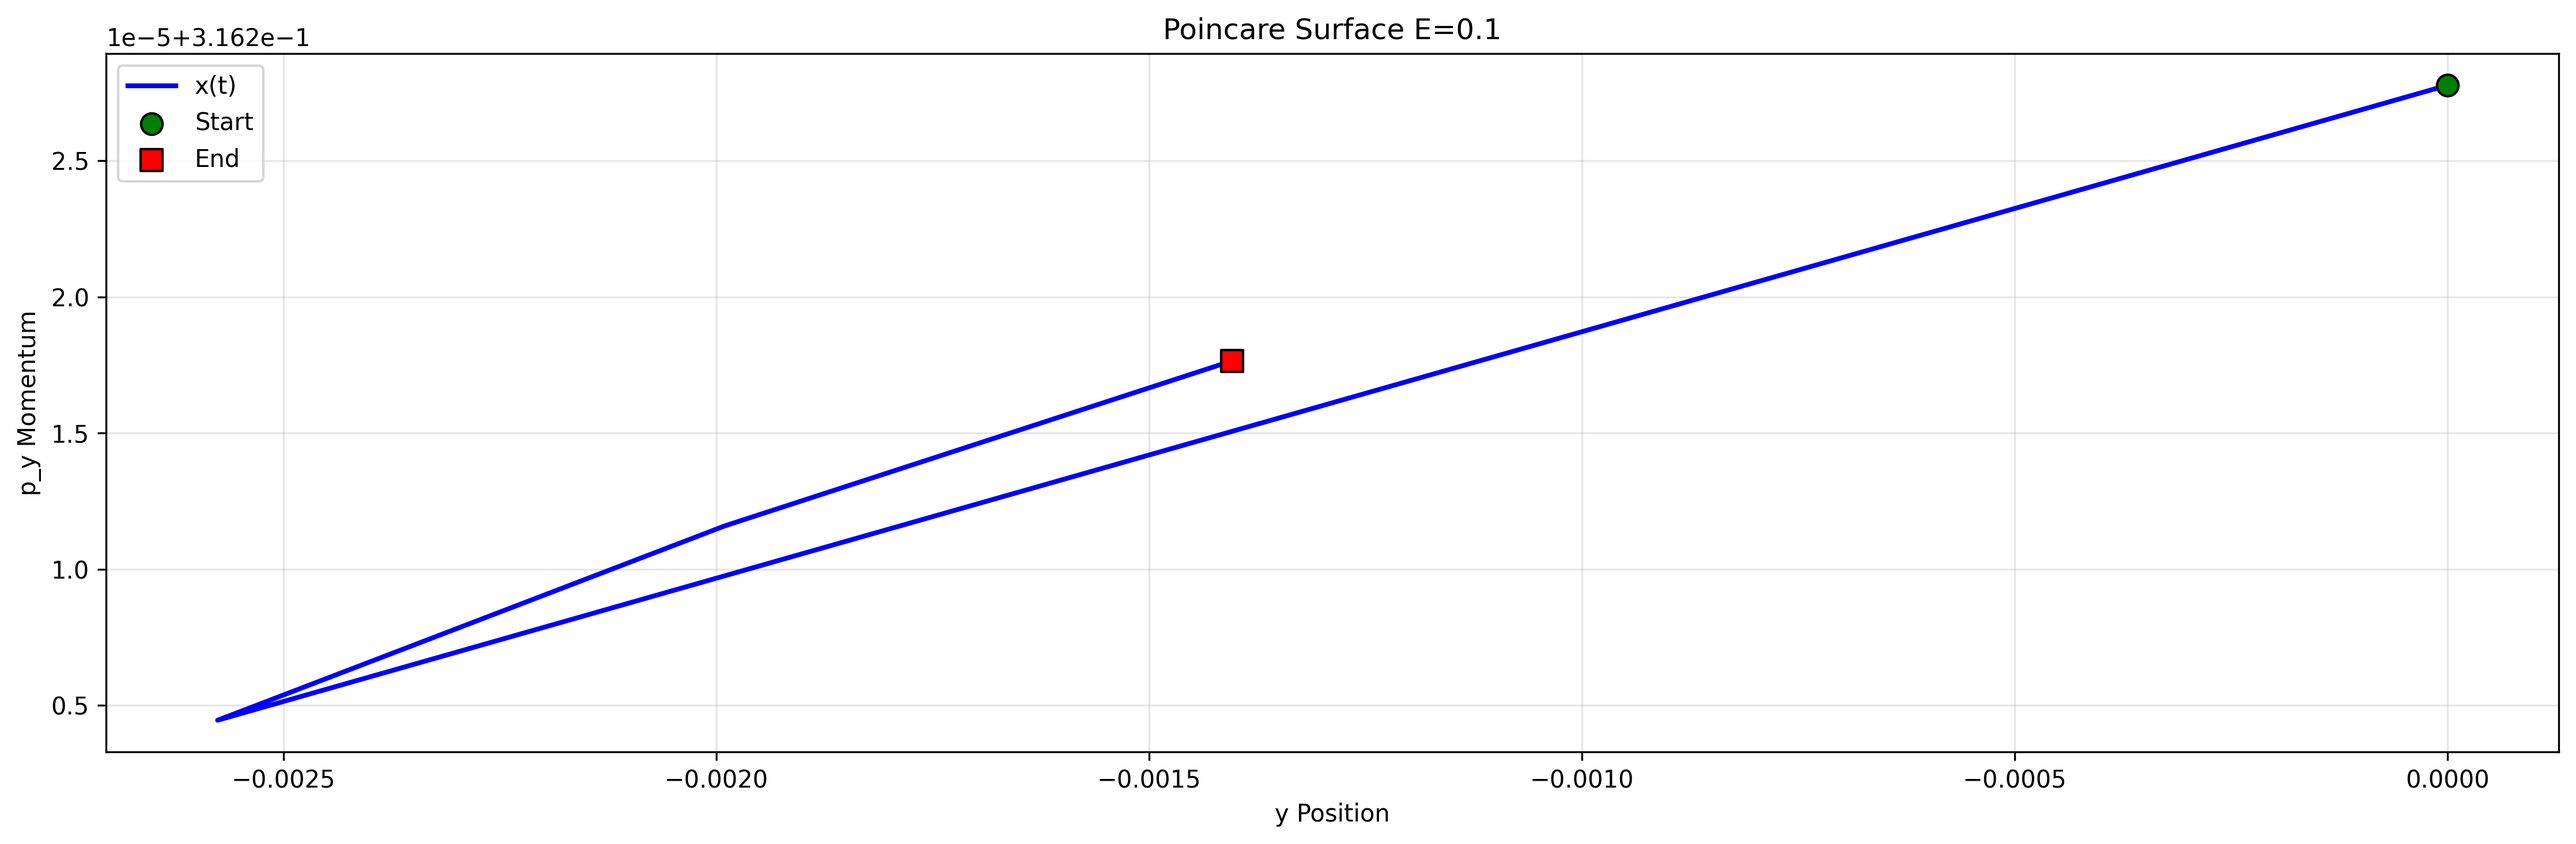
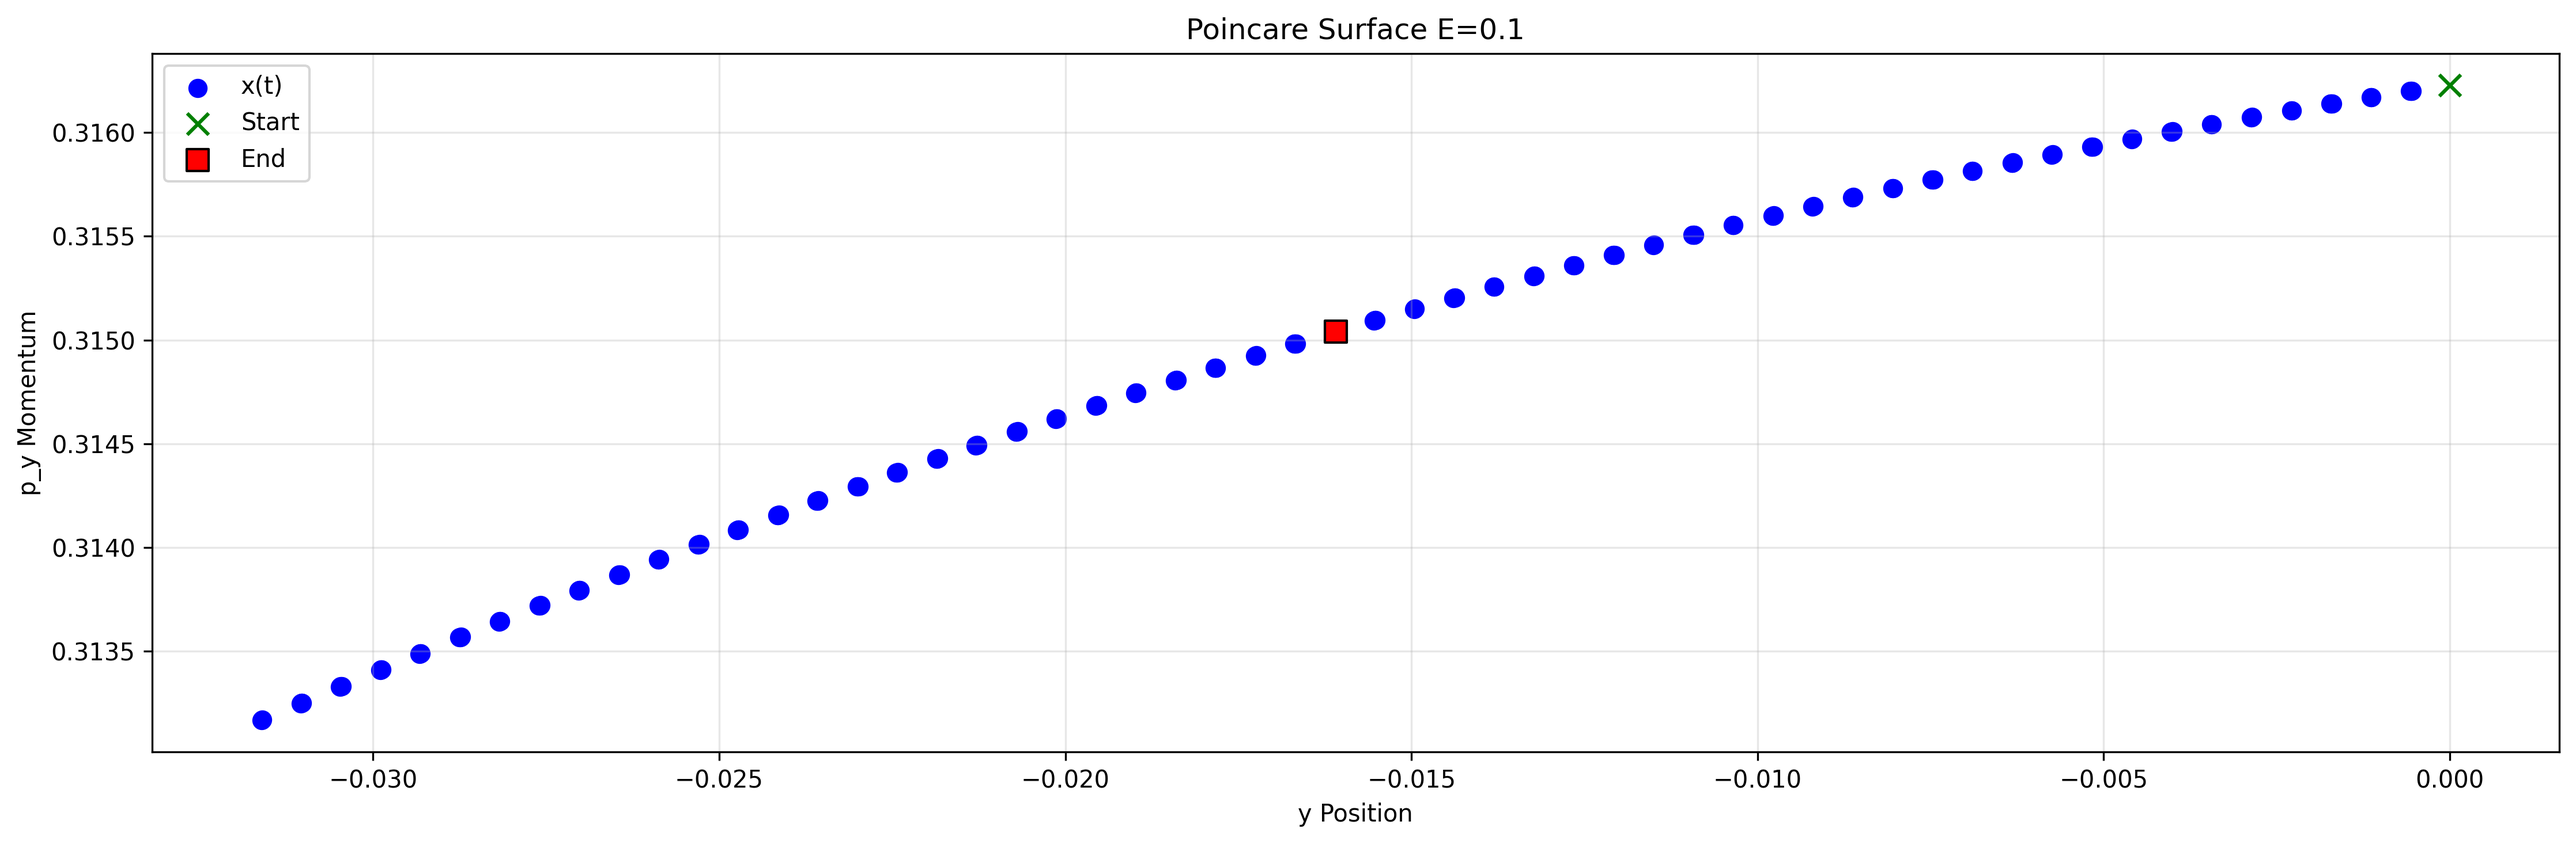
Ex6 before Kochavi

diff --git a/Ex6/potential_contours.py b/Ex6/potential_contours.py
@@ -10,8 +10,7 @@ def HenonHils(x, y, E):
 def Toda(x, y, E):
     return 1/24 * (np.exp(2*y+2*np.sqrt(3)*x) + np.exp(2*y-2*np.sqrt(3)*x) + np.exp(-4*y)) - 1/8 - E
 
-def plot_multi_energy_contours(func, X, Y, energies, ax, title, colormap='viridis', separatrix_E=None):
-    print(f"Plotting {title} contours...")
+def plot_multi_energy_contours(func, X, Y, energies, ax, title, colormap='viridis', separatrix_Es=None):
     colors = plt.cm.get_cmap(colormap)(np.linspace(0, 1, len(energies)))
     
     for i, E in enumerate(energies):
@@ -23,18 +22,17 @@ def plot_multi_energy_contours(func, X, Y, energies, ax, title, colormap='viridi
             continue
     
     # Plot separatrix if specified
-    if separatrix_E is not None:
-        Z_sep = func(X, Y, separatrix_E)
-        try:
-            contour_sep = ax.contour(X, Y, Z_sep, levels=[0], colors=['red'], linewidths=3)
+    if separatrix_Es is not None:
+        colors = ['purple', 'green', 'green', 'blue', 'orange'][:len(separatrix_Es)]
+        legend_elements = []
+        for i, separatrix_E in enumerate(separatrix_Es):
+            Z_sep = func(X, Y, separatrix_E)
+            contour_sep = ax.contour(X, Y, Z_sep, levels=[0], colors=[colors[i]], linewidths=3, linestype='--')
             # Create a custom legend entry for the separatrix
             from matplotlib.lines import Line2D
-            legend_elements = [Line2D([0], [0], color='red', lw=3, label=f'Separatrix (E={separatrix_E:.4f})')]
-            ax.legend(handles=legend_elements, loc='upper right')
-            print(f"Added separatrix contour at E = {separatrix_E}")
-        except:
-            print(f"Warning: Could not plot separatrix contour for E = {separatrix_E}")
-    
+            legend_elements.append(Line2D([0], [0], color=colors[i], lw=3, linestyle='--', label=f'Separatrix (E={separatrix_E:.4f})'))
+        ax.legend(handles=legend_elements, loc='upper right')
+        
     # Format the plot
     ax.set_xlabel('x')
     ax.set_ylabel('y')
@@ -85,6 +83,35 @@ def create_output_directory():
     return output_dir
 
 # 2. Create a grid of x and y values
+E_henon = np.linspace(0.001, 0.05, 15)  # Energy levels for Henon-Heiles
+E_toda = np.linspace(0.001, 0.05, 15)  # Energy levels for Toda
+
+scale = 0.4
+x_min, x_max = -scale, scale
+y_min, y_max = -scale, scale
+x = np.linspace(x_min, x_max, 400)
+y = np.linspace(y_min, y_max, 400)
+X, Y = np.meshgrid(x, y)
+
+fig, (ax1, ax2) = plt.subplots(1, 2, figsize=(16, 7))
+
+plot_multi_energy_contours(HenonHils, X, Y, E_henon, ax1, 
+                          'Henon-Heiles Function Contours\n(Multiple Energy Levels)', 
+                          'viridis',
+                          separatrix_Es=[0.0523])
+
+plot_multi_energy_contours(Toda, X, Y, E_toda, ax2, 
+                          'Toda Function Contours\n(Multiple Energy Levels)', 
+                          'viridis')
+
+plt.tight_layout()
+output_dir = create_output_directory()
+# Save the multi-energy contour plot
+multi_energy_path = os.path.join(output_dir, "multi_energy_contours[zoom in].png")
+plt.savefig(multi_energy_path, dpi=300, bbox_inches='tight')
+
+
+#######################################################################################################
 x_min, x_max = -3, 3
 y_min, y_max = -3, 3
 x = np.linspace(x_min, x_max, 400)
@@ -92,8 +119,8 @@ y = np.linspace(y_min, y_max, 400)
 X, Y = np.meshgrid(x, y)
 
 # 3. Define different energy arrays for each function
-E_henon = np.linspace(0.01, 0.3, 15)  # Energy levels for Henon-Heiles
-E_toda = np.linspace(-0.1, 5, 15)   # Energy levels for Toda
+E_henon = np.linspace(0, 0.5, 15)  # Energy levels for Henon-Heiles
+E_toda = np.append(E_henon[1:5], np.linspace(0, 5, 16))   # Energy levels for Toda
 
 # 4. Create output directory
 output_dir = create_output_directory()
@@ -104,23 +131,25 @@ fig, (ax1, ax2) = plt.subplots(1, 2, figsize=(16, 7))
 plot_multi_energy_contours(HenonHils, X, Y, E_henon, ax1, 
                           'Henon-Heiles Function Contours\n(Multiple Energy Levels)', 
                           'viridis',
-                          separatrix_E=0.0523)
+                          separatrix_Es=[0.0523, 0.334])
 
 plot_multi_energy_contours(Toda, X, Y, E_toda, ax2, 
                           'Toda Function Contours\n(Multiple Energy Levels)', 
-                          'plasma')
+                          'viridis')
 
 plt.tight_layout()
 
 # Save the multi-energy contour plot
-multi_energy_path = os.path.join(output_dir, "multi_energy_contours.png")
+multi_energy_path = os.path.join(output_dir, "multi_energy_contours [zoom out].png")
 plt.savefig(multi_energy_path, dpi=300, bbox_inches='tight')
-print(f"Multi-energy contour plot saved to: {multi_energy_path}")
+
+
 
 # 6. Create and save single contour plot
 single_contour_path = os.path.join(output_dir, "single_contour_henon_heiles.png")
-plot_single_contour(HenonHils, X, Y, E=0.01, 
-                   title='Original Plot: Henon-Heiles f(x,y) = 0 at E = 0.03',
+E_separatrix = 0.334
+plot_single_contour(HenonHils, X, Y, E=E_separatrix, 
+                   title=f'Original Plot: Henon-Heiles f(x,y) = 0 at E = {E_separatrix}',
                    save_path=single_contour_path)
 
 print(f"\nAll plots have been saved to the '{output_dir}' directory.")

diff --git a/Ex6/symplectic.py b/Ex6/symplectic.py
@@ -2,9 +2,9 @@ import matplotlib.pyplot as plt
 import numpy as np
 from typing import List, Tuple
 
-t_final = 20
+t_final = 200
 alpha = 4
-dt = 10 ** -3
+dt = 10 ** -2
 NUM_ITERATIONS = int(t_final / dt)
 
 def forceHenon(x: float, y: float) -> Tuple[float, float]:
@@ -13,7 +13,7 @@ def forceHenon(x: float, y: float) -> Tuple[float, float]:
     return Fx, Fy
 
 def forceToda(x: float, y: float) -> Tuple[float, float]:
-    Fx = - np.sqrt(3)/12 * (np.exp(2*y+2*np.sqrt(3)*x) - np.exp(2*y-2*np.sqrt(3)*x) + np.exp(-4*y))
+    Fx = - np.sqrt(3)/12 * (np.exp(2*y+2*np.sqrt(3)*x) - np.exp(2*y-2*np.sqrt(3)*x))
     Fy = - 1/12 * (np.exp(2*y+2*np.sqrt(3)*x) + np.exp(2*y-2*np.sqrt(3)*x) - 2 * np.exp(-4*y))
     return Fx, Fy
 
@@ -38,62 +38,6 @@ def solve_numeric_symplectic(x_0: float, y_0: float, px_0: float, py_0: float, f
         if (x[n] >= 0 and x[n + 1] <=0) or (x[n] <= 0 and x[n + 1] >= 0):
             cross_points.append(t[n])
     return t, x, y, px, py
-
-def plot_3d_dynamics(t, x, y, title="3D Trajectory Dynamics", save_path=None, 
-                     figsize=(12, 9), trajectory_color='blue', start_color='green', 
-                     end_color='red', marker_size=100):
-    """
-    Plot 3D dynamics showing the trajectory (x(t), y(t)) in space with time as the third dimension
-    
-    Parameters:
-    t: array of time values
-    x: array of x coordinates
-    y: array of y coordinates
-    title: plot title
-    save_path: optional path to save the figure
-    figsize: figure size tuple
-    trajectory_color: color of the trajectory line
-    start_color: color of the starting point marker
-    end_color: color of the ending point marker
-    marker_size: size of start/end markers
-    """
-    
-    # Create 3D figure
-    fig = plt.figure(figsize=figsize)
-    ax = fig.add_subplot(111, projection='3d')
-    
-    # Plot the trajectory line
-    ax.plot(x, y, t, color=trajectory_color, linewidth=2, alpha=0.8, label='Trajectory')
-    
-    # Mark starting point
-    ax.scatter(x[0], y[0], t[0], color=start_color, s=marker_size, 
-               marker='o', label=f'Start (t={t[0]:.3f})', alpha=0.9, edgecolors='black')
-    
-    # Mark ending point
-    ax.scatter(x[-1], y[-1], t[-1], color=end_color, s=marker_size, 
-               marker='s', label=f'End (t={t[-1]:.3f})', alpha=0.9, edgecolors='black')
-    
-    # Set labels and title
-    ax.set_xlabel('X Position')
-    ax.set_ylabel('Y Position')
-    ax.set_zlabel('Time (t)')
-    ax.set_title(title)
-    
-    # Add legend
-    ax.legend(loc='upper left')
-    
-    # Add grid
-    ax.grid(True, alpha=0.3)
-    
-    # Set viewing angle for better visualization
-    ax.view_init(elev=20, azim=45)
-    
-    # Save if path provided
-    if save_path:
-        plt.savefig(save_path, dpi=300, bbox_inches='tight')
-        print(f"3D dynamics plot saved to: {save_path}")
-    
-    return fig, ax
 
 
 def plot_2d_projection_dynamics(t, x, y, title="2D Trajectory Projections", save_path=None, 
@@ -161,12 +105,13 @@ def plot_2d_projection_dynamics(t, x, y, title="2D Trajectory Projections", save
 
 # Example usage with sample data
 if __name__ == "__main__":
-    E_henon = 0.001
-    E_toda = 0.001
+    E_henon = 0.3
+    E_toda = 0.3
     energies = [E_henon, E_toda]
     forces = [forceHenon, forceToda]
 
     for i ,(E, force) in enumerate(zip(energies, forces)):
+        print(i, E ,force)
         t_sample, x_sample, y_sample, px_sample, py_sample = solve_numeric_symplectic(
             x_0=0, y_0=0, px_0=np.sqrt(E), py_0=np.sqrt(E), force=force
         )
@@ -177,18 +122,11 @@ if __name__ == "__main__":
         if not os.path.exists(output_dir):
             os.makedirs(output_dir)
             print(f"Created directory: {output_dir}")
-        
-        # Plot 3D dynamics
-        fig_3d, ax_3d = plot_3d_dynamics(
-            t_sample, x_sample, y_sample, 
-            title=f"3D Spiral Trajectory Dynamics {force.__name__}",
-            save_path=os.path.join(output_dir, f"3d_dynamics_example-{force.__name__}.png")
-        )
-        
+                
         # Plot 2D projections
         fig_2d, axes_2d = plot_2d_projection_dynamics(
             t_sample, x_sample, y_sample,
-            title=f"2D Projections of Spiral Dynamics {force.__name__}",
-            save_path=os.path.join(output_dir, f"2d_projections_example-{force.__name__}.png")
+            title=f"2D Projections {force.__name__}",
+            save_path=os.path.join(output_dir, f"2d_projections_{force.__name__}.png")
         )
         

diff --git a/Ex6/poincare.py b/Ex6/poincare.py
@@ -1,21 +1,12 @@
 import matplotlib.pyplot as plt
 import numpy as np
 from typing import List, Tuple
+from symplectic import forceHenon, forceToda
 
-t_final = 20
-alpha = 4
-dt = 10 ** -2
+t_final = 1000
+dt = 10 ** -1
 NUM_ITERATIONS = int(t_final / dt)
 
-def forceHenon(x: float, y: float) -> Tuple[float, float]:
-    Fx = - (x + y ** 2)
-    Fy = - (1 + 2*x)*y + y**2
-    return Fx, Fy
-
-def forceToda(x: float, y: float) -> Tuple[float, float]:
-    Fx = - np.sqrt(3)/12 * (np.exp(2*y+2*np.sqrt(3)*x) - np.exp(2*y-2*np.sqrt(3)*x) + np.exp(-4*y))
-    Fy = - 1/12 * (np.exp(2*y+2*np.sqrt(3)*x) + np.exp(2*y-2*np.sqrt(3)*x) - 2 * np.exp(-4*y))
-    return Fx, Fy
 
 def poincare_surface(x_0: float, y_0: float, px_0: float, py_0: float, force: callable) -> Tuple[List[float], List[float]]:
     y_poincare = []
@@ -50,9 +41,9 @@ def plot_poincare_surface(y, py, title, save_path,
     ax = fig.gca()
     
     # Plot x(t)
-    ax.plot(y, py, color=trajectory_color, linewidth=2, label='x(t)')
-    ax.scatter(y[0], py[0], color=start_color, s=marker_size, marker='o', 
-                label=f'Start', zorder=5, edgecolors='black')
+    ax.scatter(y[1:-1], py[1:-1], color=trajectory_color, linewidth=2, label='x(t)')
+    ax.scatter(y[0], py[0], color=start_color, s=marker_size, marker='x', 
+                label=f'Start', zorder=5)
     ax.scatter(y[-1], py[-1], color=end_color, s=marker_size, marker='s', 
                 label=f'End', zorder=5, edgecolors='black')
     ax.set_xlabel('y Position')
@@ -69,31 +60,45 @@ def plot_poincare_surface(y, py, title, save_path,
     
     return fig, ax
 
+def generate_initial_conditions(E, force):
+    if force == forceHenon:
+        print(E, np.roots([-E, 0, 1/2, 1/3])[0], np.roots([-E, 0, 1/2, 1/3])[1])
+        return [
+            (0.0, 0.0, np.sqrt(E), np.sqrt(E)),
+            # (0.0, np.roots([-E, 0, 1/2, 1/3])[0], 0.0, 0.0),
+            # (0.0, np.roots([-E, 0, 1/2, 1/3])[1], 0.0, 0.0),
+        ]
+    elif force == forceToda:
+        return [
+            (0.0, 0.0, np.sqrt(E), np.sqrt(E))
+        ]
+
 
 # Example usage with sample data
 if __name__ == "__main__":
-    Es_henon = [0.03,0.1,0.16]
+    Es_henon = [0.03,0.1,0.16, 0.2, 0.25]
     Es_toda = [0.03,0.1,0.16,0.5,5]
     energies = [Es_henon, Es_toda]
     forces = [forceHenon, forceToda]
 
     for i ,(Es, force) in enumerate(zip(energies, forces)):
         for E in Es:
-            y, py = poincare_surface(
-                x_0=0, y_0=0, px_0=np.sqrt(E), py_0=np.sqrt(E), force=force
-            )
-        
-            # Create output directory
-            import os
-            output_dir = "poincare_plots_output"
-            if not os.path.exists(output_dir):
-                os.makedirs(output_dir)
+            for initial_conditions in generate_initial_conditions(E, force):
+                y, py = poincare_surface(
+                    *initial_conditions, force=force
+                )
             
+                # Create output directory
+                import os
+                output_dir = "Ex6/figures/poincare_plots_output"
+                if not os.path.exists(output_dir):
+                    os.makedirs(output_dir)
+                
 
-            # Plot 2D projections
-            fig_2d, axes_2d = plot_poincare_surface(
-                y, py,
-                title=f"Poincare Surface E={E}",
-                save_path=os.path.join(output_dir, f"poincare_surface_{force.__name__}_E={E}.png")
-            )
+                # Plot 2D projections
+                fig_2d, axes_2d = plot_poincare_surface(
+                    y, py,
+                    title=f"Poincare Surface E={E}",
+                    save_path=os.path.join(output_dir, f"poincare_surface_{force.__name__}_E={E}.png")
+                )
         
